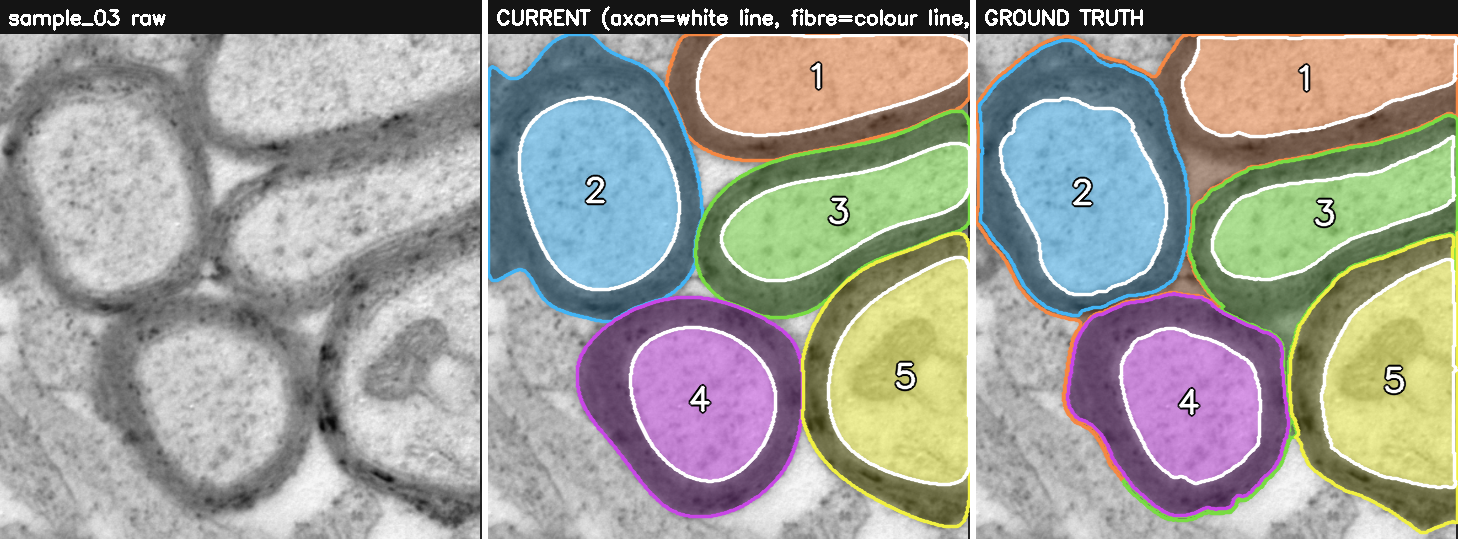
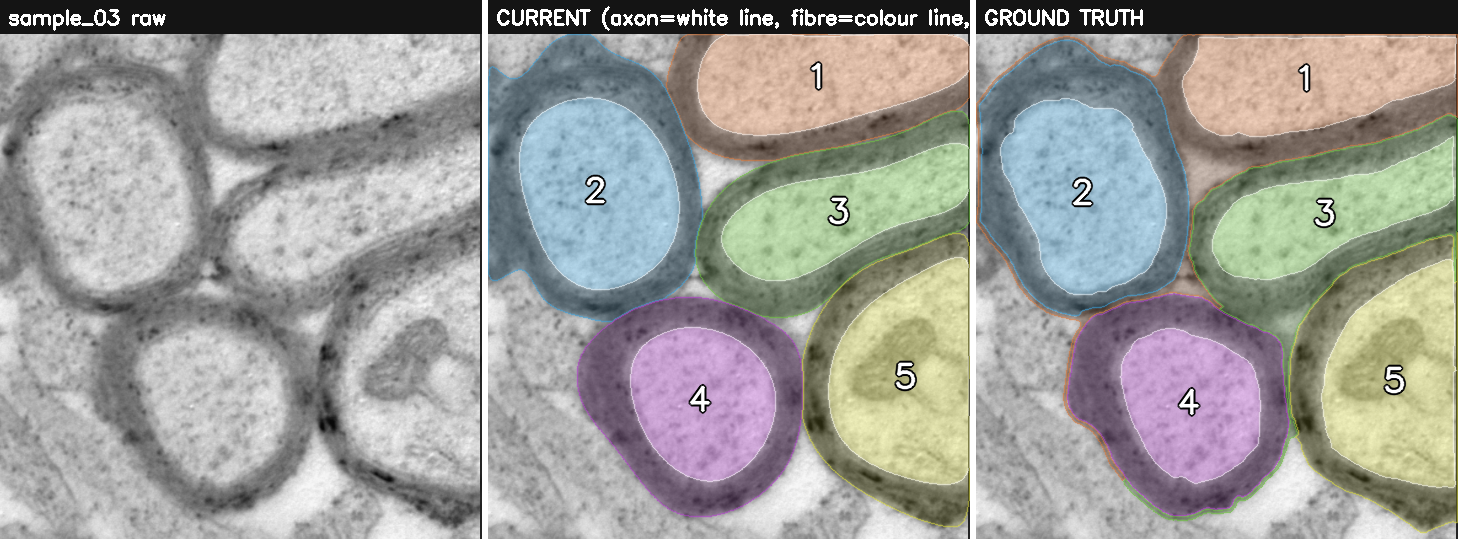
Make axon/myelin borders thin and semi-transparent
Draw 1px border lines on a separate layer and blend them at 0.55
alpha, and lighten the region fill to 0.3, so the raw micrograph
shows through and border placement can be verified.

Claude-Session: https://claude.ai/code/session_01DAyRnEZm5zhwCLxqPQcg1o

diff --git a/render_labeled.py b/render_labeled.py
@@ -36,7 +36,8 @@ def _renumber(axon_labels):
     return {old: n + 1 for n, (old, _, _) in enumerate(order)}
 
 
-def _draw(gray, axon_labels, fiber_labels, bubble=None, alpha=0.5):
+def _draw(gray, axon_labels, fiber_labels, bubble=None, alpha=0.3,
+          line_thickness=1, line_alpha=0.55):
     vis = cv2.cvtColor(gray, cv2.COLOR_GRAY2BGR)
     fill = vis.copy()
     remap = _renumber(axon_labels)
@@ -48,11 +49,16 @@ def _draw(gray, axon_labels, fiber_labels, bubble=None, alpha=0.5):
     vis[paint] = (alpha * fill[paint] + (1 - alpha) * vis[paint]).astype(np.uint8)
     if bubble is not None and bubble.any():
         vis[bubble] = (0, 255, 255)
+    # Draw thin border lines onto a separate layer, then blend so the raw
+    # image stays visible underneath and border placement can be checked.
+    lines = vis.copy()
     for old, new in remap.items():
         col = PALETTE[(new - 1) % len(PALETTE)]
-        for lab, c, th in [(fiber_labels == old, col, 2), (axon_labels == old, (255, 255, 255), 2)]:
+        for lab, c in [(fiber_labels == old, col), (axon_labels == old, (255, 255, 255))]:
             cs, _ = cv2.findContours(lab.astype(np.uint8), cv2.RETR_EXTERNAL, cv2.CHAIN_APPROX_SIMPLE)
-            cv2.drawContours(vis, cs, -1, c, th, cv2.LINE_AA)
+            cv2.drawContours(lines, cs, -1, c, line_thickness, cv2.LINE_AA)
+    vis = (line_alpha * lines + (1 - line_alpha) * vis).astype(np.uint8)
+    for old, new in remap.items():
         ys, xs = np.where(axon_labels == old)
         org = (int(xs.mean()) - 14, int(ys.mean()) + 10)
         cv2.putText(vis, str(new), org, cv2.FONT_HERSHEY_SIMPLEX, 1.1, (0, 0, 0), 5, cv2.LINE_AA)
